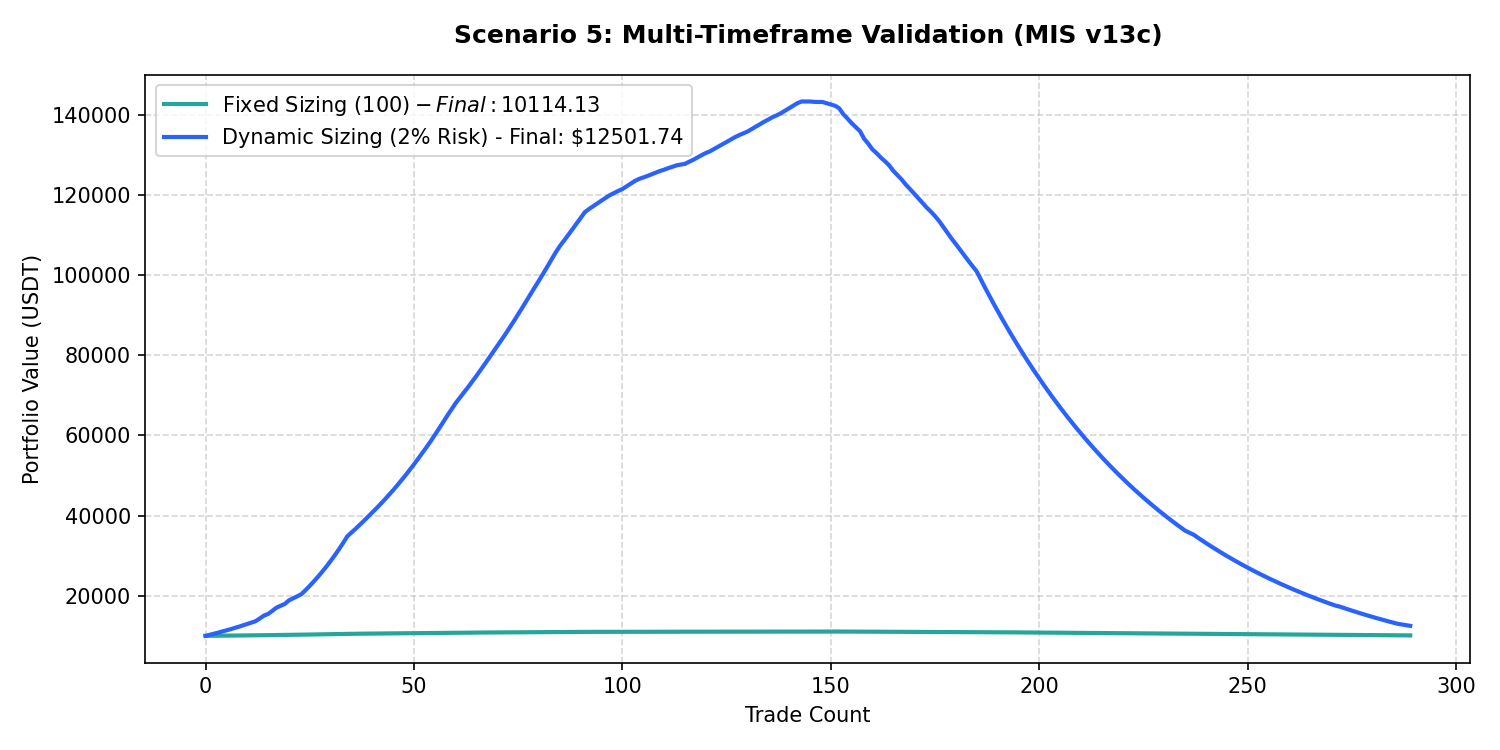
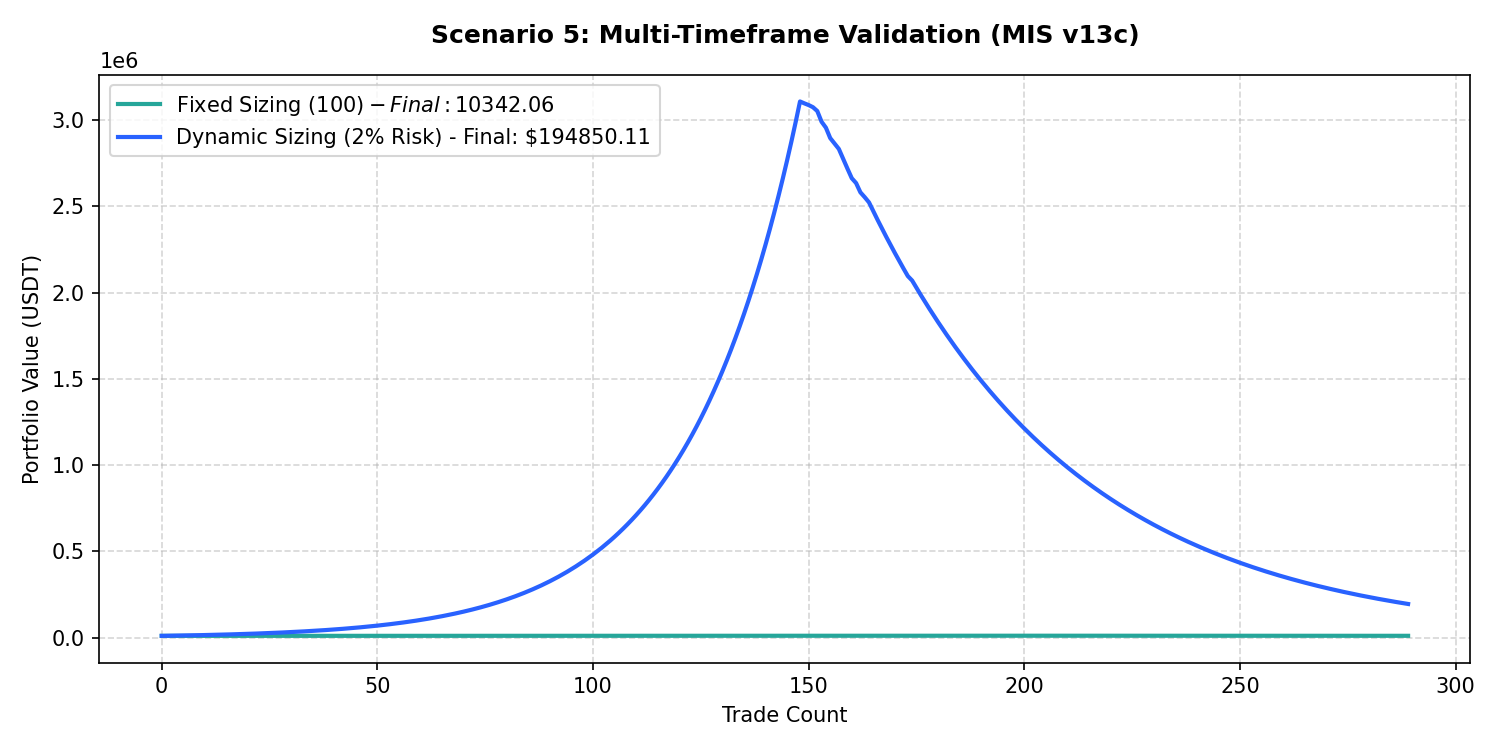
docs(docs): update BACKTEST_REPORTS_INDEX.md and 6 other files

diff --git a/docs/reports/v2.1.0-7.6.3/BACKTEST_REPORTS_INDEX.md b/docs/reports/v2.1.0-7.6.3/BACKTEST_REPORTS_INDEX.md
@@ -13,8 +13,8 @@ Starting portfolio size: 10,000 USDT. Fixed position size: 100 USDT.
 | **S2** | Scenario 2: Standard Minervini Filter (MIS v12b) | 150 | 0.0% | -618.92 USDT | 0.00 | 6.19% | [View Report](mis_v12b/report.md) |
 | **S3** | Scenario 3: Short-term EMA Filter (Strategy MTT) | 441 | 26.5% | -1140.40 USDT | 0.28 | 15.11% | [View Report](strategy_mtt/report.md) |
 | **S4** | Scenario 4: Tight SL / Trailing Stop (MIS v10/v11a) | 1008 | 46.8% | +423.14 USDT | 1.19 | 3.13% | [View Report](mis_v10/report.md) |
-| **S5** | Scenario 5: Multi-Timeframe Validation (MIS v13c) | 289 | 49.8% | +114.13 USDT | 1.12 | 8.72% | [View Report](mis_v13c/report.md) |
-| **S6** | Scenario 6: Optimized Hybrid Mode (MIS v15/v16/v2) | 370 | 25.9% | -1091.54 USDT | 0.28 | 14.54% | [View Report](mis_v15_v16_v2/report.md) |
+| **S5** | Scenario 5: Multi-Timeframe Validation (MIS v13c) | 289 | 51.2% | +342.06 USDT | 1.40 | 7.55% | [View Report](mis_v13c/report.md) |
+| **S6** | Scenario 6: Optimized Hybrid Mode (MIS v15/v16/v2) | 370 | 28.1% | -520.75 USDT | 0.62 | 12.55% | [View Report](mis_v15_v16_v2/report.md) |
 
 
 ---
@@ -28,8 +28,8 @@ Starting portfolio size: 10,000 USDT. Starting Equity: 10,000 USDT. Risk 2% port
 | **S2** | Scenario 2: Standard Minervini Filter (MIS v12b) | 150 | 0.0% | -7891.26 USDT | 0.00 | 78.91% | [View Report](mis_v12b/report.md) |
 | **S3** | Scenario 3: Short-term EMA Filter (Strategy MTT) | 441 | 26.5% | -9444.96 USDT | 0.66 | 98.11% | [View Report](strategy_mtt/report.md) |
 | **S4** | Scenario 4: Tight SL / Trailing Stop (MIS v10/v11a) | 1008 | 46.8% | +92410.17 USDT | 1.08 | 70.69% | [View Report](mis_v10/report.md) |
-| **S5** | Scenario 5: Multi-Timeframe Validation (MIS v13c) | 289 | 49.8% | +2501.74 USDT | 1.02 | 91.28% | [View Report](mis_v13c/report.md) |
-| **S6** | Scenario 6: Optimized Hybrid Mode (MIS v15/v16/v2) | 370 | 25.9% | -9372.52 USDT | 0.66 | 97.81% | [View Report](mis_v15_v16_v2/report.md) |
+| **S5** | Scenario 5: Multi-Timeframe Validation (MIS v13c) | 289 | 51.2% | +184850.11 USDT | 1.06 | 93.73% | [View Report](mis_v13c/report.md) |
+| **S6** | Scenario 6: Optimized Hybrid Mode (MIS v15/v16/v2) | 370 | 28.1% | -3607.52 USDT | 0.99 | 98.70% | [View Report](mis_v15_v16_v2/report.md) |
 
 
 ---

diff --git a/docs/reports/v2.1.0-7.6.3/mis_v13c/report.md b/docs/reports/v2.1.0-7.6.3/mis_v13c/report.md
@@ -13,8 +13,8 @@ Multi-timeframe validation: Daily Trend Template score >= 5, AND hourly executio
 
 | Sizing Mode | Executed Trades | Final Equity (USDT) | Net Profit (USDT) | Win Rate (%) | Profit Factor | Max Drawdown (%) | Expectancy |
 | :--- | :---: | :---: | :---: | :---: | :---: | :---: | :---: |
-| **Fixed Sizing ($100)** | 289 | 10114.13 | +114.13 | 49.8% | 1.12 | 8.72% | 0.3949 |
-| **Dynamic Sizing (2% Risk)** | 289 | 12501.74 | +2501.74 | 49.8% | 1.02 | 91.28% | 8.6565 |
+| **Fixed Sizing ($100)** | 289 | 10342.06 | +342.06 | 51.2% | 1.40 | 7.55% | 1.1836 |
+| **Dynamic Sizing (2% Risk)** | 289 | 194850.11 | +184850.11 | 51.2% | 1.06 | 93.73% | 639.6198 |
 
 ---
 
@@ -27,5 +27,5 @@ The chart below illustrates the cumulative equity curve performance for both Fix
 
 ## 4. Scenario Breakdown Analysis
 - **Filter Restrictiveness**: This scenario filtered out 726 signals out of 1015 (Skip Rate: 71.5%).
-- **Compounding Sizing Effect**: Dynamic compounding sizing led to an equity of **$12501.74** compared to **$10114.13** in Fixed Sizing.
-- **Profitability Verdict**: PROFITABLE with a Profit Factor of **1.02** and expectancy **8.6565** under Dynamic Sizing.
+- **Compounding Sizing Effect**: Dynamic compounding sizing led to an equity of **$194850.11** compared to **$10342.06** in Fixed Sizing.
+- **Profitability Verdict**: PROFITABLE with a Profit Factor of **1.06** and expectancy **639.6198** under Dynamic Sizing.

diff --git a/docs/reports/v2.1.0-7.6.3/mis_v15_v16_v2/report.md b/docs/reports/v2.1.0-7.6.3/mis_v15_v16_v2/report.md
@@ -13,8 +13,8 @@ Hybrid momentum pullback: Daily Trend Template score >= 5, daily RSI 14 >= 50 (l
 
 | Sizing Mode | Executed Trades | Final Equity (USDT) | Net Profit (USDT) | Win Rate (%) | Profit Factor | Max Drawdown (%) | Expectancy |
 | :--- | :---: | :---: | :---: | :---: | :---: | :---: | :---: |
-| **Fixed Sizing ($100)** | 370 | 8908.46 | -1091.54 | 25.9% | 0.28 | 14.54% | -2.9501 |
-| **Dynamic Sizing (2% Risk)** | 370 | 627.48 | -9372.52 | 25.9% | 0.66 | 97.81% | -25.3311 |
+| **Fixed Sizing ($100)** | 370 | 9479.25 | -520.75 | 28.1% | 0.62 | 12.55% | -1.4074 |
+| **Dynamic Sizing (2% Risk)** | 370 | 6392.48 | -3607.52 | 28.1% | 0.99 | 98.70% | -9.7501 |
 
 ---
 
@@ -27,5 +27,5 @@ The chart below illustrates the cumulative equity curve performance for both Fix
 
 ## 4. Scenario Breakdown Analysis
 - **Filter Restrictiveness**: This scenario filtered out 645 signals out of 1015 (Skip Rate: 63.5%).
-- **Compounding Sizing Effect**: Dynamic compounding sizing led to an equity of **$627.48** compared to **$8908.46** in Fixed Sizing.
-- **Profitability Verdict**: UNPROFITABLE with a Profit Factor of **0.66** and expectancy **-25.3311** under Dynamic Sizing.
+- **Compounding Sizing Effect**: Dynamic compounding sizing led to an equity of **$6392.48** compared to **$9479.25** in Fixed Sizing.
+- **Profitability Verdict**: UNPROFITABLE with a Profit Factor of **0.99** and expectancy **-9.7501** under Dynamic Sizing.

diff --git a/docs/reports/v2.1.0-7.6.3/QUANTITATIVE_STRATEGY_REPORT.md b/docs/reports/v2.1.0-7.6.3/QUANTITATIVE_STRATEGY_REPORT.md
@@ -13,8 +13,8 @@ Phân tích trên **370 lệnh giao dịch** được tạo ra từ kịch bản
 
 - **Equity Trung bình cuối kỳ**: **2597.62 USDT**
 - **Equity Trung vị**: **2597.62 USDT**
-- **Mức sụt giảm vốn lớn nhất (Max Drawdown) Trung bình**: **75.31%**
-- **Max Drawdown tệ nhất (95th Percentile)**: **77.30%**
+- **Mức sụt giảm vốn lớn nhất (Max Drawdown) Trung bình**: **75.29%**
+- **Max Drawdown tệ nhất (95th Percentile)**: **77.24%**
 - **Xác suất cháy tài khoản (Ruin Probability - giảm 50% vốn)**: **100.00%**
 
 ### B. Outlier Removal (Type II) - Loại bỏ 10% lệnh thắng tốt nhất
@@ -63,5 +63,5 @@ Tài liệu kiểm định Walk-Forward cuốn chiếu đánh giá khả năng t
 - **Walk-Forward Efficiency (WFE) Trung bình**: **25.00%**
 - **Đánh giá độ tin cậy**: ⚠ CẦN TỐI ƯU HÓA LẠI (WFE < 60%) - Có dấu hiệu Overfitting khi đổi chế độ nến.
 
-*Báo cáo được tạo tự động bởi walk_forward_runner.py vào 2026-06-20 20:30:33*
+*Báo cáo được tạo tự động bởi walk_forward_runner.py vào 2026-06-20 21:10:09*
 

diff --git a/docs/reports/v2.1.0-7.6.3/walk_forward_report.md b/docs/reports/v2.1.0-7.6.3/walk_forward_report.md
@@ -17,4 +17,4 @@ Tài liệu kiểm định Walk-Forward cuốn chiếu đánh giá khả năng t
 - **Walk-Forward Efficiency (WFE) Trung bình**: **25.00%**
 - **Đánh giá độ tin cậy**: ⚠ CẦN TỐI ƯU HÓA LẠI (WFE < 60%) - Có dấu hiệu Overfitting khi đổi chế độ nến.
 
-*Báo cáo được tạo tự động bởi walk_forward_runner.py vào 2026-06-20 20:30:33*
+*Báo cáo được tạo tự động bởi walk_forward_runner.py vào 2026-06-20 21:10:09*
